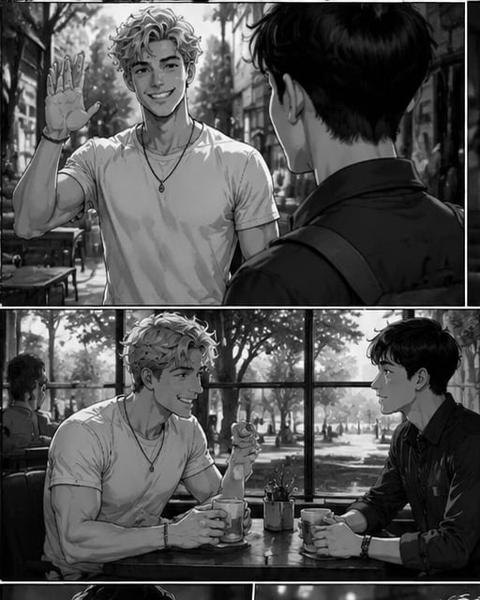
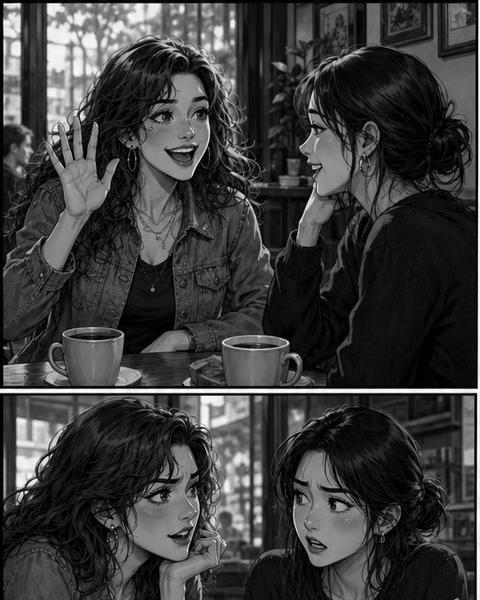
Give the news stories and Gossiping about Leo their own comics and covers
Six generated pages wired in: two each for Roland Garros, Grazing Board and
Gossiping about Leo. Each track now names its own comicUrl, because the
comicManifest is keyed by difficulty and would otherwise hand all three of them
Leo's pages.

The masters were 2-3 MB RGBA PNGs sitting in public/, and everything under
public/ is copied verbatim into dist/ and shipped in the frontend image — that
would have sent ~16 MB of source artwork to every student on a phone. They move
to assets-src/comics/, outside the served tree, and scripts/make-comics.py
flattens them to progressive JPEGs in the layout the built-in stories already
use: 16 MB becomes 1.8 MB, in line with the existing pages at ~270 KB each.

Flattening composites onto white rather than calling convert("RGB"), which
would composite transparency onto black and rim every soft edge with a dark
halo.

make-covers.py picks up the three stories from their own artwork, so
leo-additional stops borrowing a crop of Leo's ninth page, and the two news
stories get real cards instead of the halftone + emoji fallback. Its crop is
now derived from the page rather than hardcoded: the news art is square
(1024x1024, 1254x1254) while the character pages are 1024x1536, and a fixed
512x640 box reads as "top-left quarter" on a tall page but drifts toward the
middle of a square one. Half the width at 4:5 reproduces the old box exactly
for any 1024-wide page and stays framed on the rest.
[…]

diff --git a/src/pages/List.tsx b/src/pages/List.tsx
@@ -11,26 +11,29 @@ import {
   IoPlay,
 } from 'react-icons/io5';
 import { useTranslation } from 'react-i18next';
+import { themes } from '../modules/levelprogress/themes.levelprogress';
 
 /**
  * Story cards are 4:5 crops of each story's own comic page with the title set
  * in a caption plate, the way a comic puts narration inside the panel. The art
- * is monochrome, so progress is the one piece of colour on a card — red, the
- * same red the player's timeMarkers already use.
+ * is monochrome, so progress is the one piece of colour on a card — and that
+ * colour is the level's own, read from themes.levelprogress rather than picked
+ * again here, so a card can never drift from the level picker or LevelProgress.
+ *
+ * `accent` arrives as a var(--color-*) reference, so it is handed down as the
+ * --level-accent custom property and consumed by static utility classes
+ * (bg-[var(--level-accent)]). Interpolating a colour into a class name would
+ * not survive Tailwind's build-time scan.
  *
  * Level identity (the milk-fat metaphor) never rides on hue alone: the tag
  * carries the fat numeral and a filled-segment meter as well as the colour, so
- * it survives colour-blind viewing.
+ * it survives colour-blind viewing. The segment count and the fat label are
+ * milk-fat concepts rather than theme ones, so they stay local.
  */
-const levelAccents: Record<DifficultySlug, {
-  fill: string;
-  text: string;
-  segments: number;
-  fatKey: string;
-}> = {
-  easy:   { fill: 'bg-emerald-600', text: 'text-emerald-700', segments: 1, fatKey: 'fatEasy' },
-  medium: { fill: 'bg-orange-600',  text: 'text-orange-700',  segments: 2, fatKey: 'fatMedium' },
-  hard:   { fill: 'bg-purple-600',  text: 'text-purple-700',  segments: 3, fatKey: 'fatHard' },
+const levelFat: Record<DifficultySlug, { segments: number; fatKey: string }> = {
+  easy:   { segments: 1, fatKey: 'fatEasy' },
+  medium: { segments: 2, fatKey: 'fatMedium' },
+  hard:   { segments: 3, fatKey: 'fatHard' },
 };
 
 const categoryOrder: StoryGroup['category'][] = ['general', 'news'];
@@ -43,7 +46,8 @@ const List = () => {
 
   const diff = (difficulty || 'easy') as DifficultySlug;
   const stories = useStoryGroups(diff, t);
-  const accent = levelAccents[diff] || levelAccents.easy;
+  const theme = themes[diff] || themes.easy;
+  const fat = levelFat[diff] || levelFat.easy;
 
   const getStoryProgress = (story: StoryGroup) => {
     const storyData = getStoryData(diff, story.slug);
@@ -127,23 +131,27 @@ const List = () => {
     return () => observer.disconnect();
   }, [groupedStories]);
 
-  /** Colour + numeral + filled segments, so the level reads three ways. */
+  /**
+   * Colour + numeral + filled segments, so the level reads three ways.
+   * The hue rides on the segment blocks, not on the numeral: the accents are
+   * 500-weight and would not carry enough contrast as small text on the
+   * near-white page background.
+   */
   const FatMeter = () => (
     <span className="inline-flex items-center gap-2 text-[11px] uppercase tracking-widest text-gray-500">
       <span className="flex gap-[2px]" aria-hidden="true">
         {[0, 1, 2].map(i => (
           <span
             key={i}
-            className={`block h-3 w-[5px] rounded-[1px] ${
-              i < accent.segments ? accent.fill : 'bg-gray-200'
-            }`}
+            className="block h-3 w-[5px] rounded-[1px]"
+            style={{ backgroundColor: i < fat.segments ? theme.accent : 'var(--color-gray-200)' }}
           />
         ))}
       </span>
       <span>
         {t('levels.fatLabel')}{' '}
-        <span className={`font-semibold tabular-nums ${accent.text}`}>
-          {t(`levels.${accent.fatKey}`)}
+        <span className="font-semibold tabular-nums text-gray-800">
+          {t(`levels.${fat.fatKey}`)}
         </span>
       </span>
     </span>
@@ -174,8 +182,11 @@ const List = () => {
         data-list-reveal="out"
         // Panels land in reading order. The stagger is capped so a long shelf
         // never turns the entrance into a queue you have to wait out.
-        style={{ '--list-delay': `${Math.min(index, 7) * 55}ms` } as React.CSSProperties}
-        className={`group relative block w-full cursor-pointer overflow-hidden rounded-lg text-left aspect-[4/5] focus:outline-none focus-visible:ring-2 focus-visible:ring-red-500 focus-visible:ring-offset-2 ${
+        style={{
+          '--list-delay': `${Math.min(index, 7) * 55}ms`,
+          '--level-accent': theme.accent,
+        } as React.CSSProperties}
+        className={`group relative block w-full cursor-pointer overflow-hidden rounded-lg text-left aspect-[4/5] focus:outline-none focus-visible:ring-2 focus-visible:ring-[var(--level-accent)] focus-visible:ring-offset-2 ${
           story.cover ? 'bg-gray-900' : 'bg-white border border-gray-200'
         }`}
       >
@@ -207,7 +218,7 @@ const List = () => {
         {(hasStarted || isCompleted) && (
           <span
             className={`list-card__chip absolute left-2 top-2 z-10 inline-flex items-center gap-1 rounded px-1.5 py-[3px] text-[10px] font-semibold tabular-nums ${
-              isCompleted ? 'bg-gray-900 text-white' : 'bg-red-500 text-white'
+              isCompleted ? 'bg-gray-900 text-white' : 'bg-[var(--level-accent)] text-white'
             }`}
           >
             {isCompleted ? (
@@ -244,7 +255,7 @@ const List = () => {
           {/* Width is the real value; the entrance scales it in from the left,
               so the bar inks itself rather than animating layout. */}
           <span
-            className="list-card__fill block h-full bg-red-500"
+            className={`list-card__fill block h-full bg-gradient-to-r ${theme.progressGradient}`}
             style={{ width: `${percentage}%` }}
           />
         </span>

diff --git a/src/types/storyGroups.ts b/src/types/storyGroups.ts
@@ -40,9 +40,10 @@ const storyGroupsRaw: Record<DifficultySlug, StoryGroupRaw[]> = {
     // source/article first, then get a story connected to it. No real audio/text yet;
     // fill in totalTracks, coverEmoji, and src/modules/audiodata placeholder tracks
     // once content is ready.
-    { slug: 'news-roland-garros', character: 'Leo', totalTracks: 2, coverEmoji: '📰', category: 'news' },
+    { slug: 'news-roland-garros', character: 'Leo', totalTracks: 2, coverEmoji: '📰', category: 'news', cover: '/assets/covers/news-roland-garros.jpg' },
+    // No artwork yet, so no cover — this one keeps the halftone + emoji card.
     { slug: 'news-family-visit',  character: 'Leo', totalTracks: 2, coverEmoji: '📰', category: 'news' },
-    { slug: 'news-grazing-board', character: 'Leo', totalTracks: 2, coverEmoji: '📰', category: 'news' },
+    { slug: 'news-grazing-board', character: 'Leo', totalTracks: 2, coverEmoji: '📰', category: 'news', cover: '/assets/covers/news-grazing-board.jpg' },
   ],
   medium: [
     { slug: 'maya',   character: 'Maya',   totalTracks: 10, coverEmoji: '👩', cover: '/assets/covers/maya.jpg' },

diff --git a/src/modules/audiodata/audioDataLeoAdditional.ts b/src/modules/audiodata/audioDataLeoAdditional.ts
@@ -13,6 +13,10 @@ export const leoAdditionalAudioData: AudioTrack[] = [
     id: "1",
     title: "Ava and Katrin",
     audio: Girls1 ,
+    // Its own artwork, not comicsData's manifest — that is keyed by difficulty
+    // alone and would hand this story Leo's pages. Written by
+    // scripts/make-comics.py.
+    comicUrl: "/assets/leo-additional/comics/1.jpg",
     helpAudio: getHelpAudioUrls("easy", "leo-additional-1"), // check this signature/path convention
     subtitles: [ /* ... */ ],
     timeMarkers: [
@@ -37,6 +41,7 @@ export const leoAdditionalAudioData: AudioTrack[] = [
     id: "2",
     title: "Ava and Sofia",
     audio: Girls2,
+    comicUrl: "/assets/leo-additional/comics/2.jpg",
     helpAudio: getHelpAudioUrls("easy", "leo-additional-2"), // check this signature/path convention
     subtitles: [ /* ... */ ],
     timeMarkers: [ /* ... */ ],

diff --git a/src/modules/audiodata/audioDataNewsPlaceholder.ts b/src/modules/audiodata/audioDataNewsPlaceholder.ts
@@ -40,6 +40,12 @@ const newsTracks = (slug: string, recorded: boolean): AudioTrack[] =>
     audio: recorded ? getStorageUrl(`${slug}/${file}`) : "",
     subtitles: [],
     timeMarkers: getStoryMarkers("easy", slug, id),
+    // Comics can't come from comicsData's manifest: that is keyed by
+    // difficulty alone, so every easy story would be handed Leo's pages. Each
+    // news story carries its own, written by scripts/make-comics.py, and
+    // `recorded` doubles as "has artwork" — family-visit has neither yet and
+    // falls back to the empty Comics card.
+    comicUrl: recorded ? `/assets/${slug}/comics/${id}.jpg` : null,
   }));
 
 export const newsRolandGarrosAudioData: AudioTrack[] = newsTracks("news-roland-garros", true);

diff --git a/scripts/make-comics.py b/scripts/make-comics.py
@@ -1,0 +1,80 @@
+"""
+Turns generated comic artwork into the pages the player actually serves.
+
+Sources live in assets-src/comics/ and are deliberately NOT under public/:
+everything in public/ is copied verbatim into dist/ and shipped in the frontend
+image, so leaving the 2-3 MB RGBA PNGs there would send ~16 MB of masters to
+every student on a phone. They go out as ~300 KB progressive JPEGs instead,
+matching the built-in stories' pages (1024x1536, RGB, ~270 KB).
+
+Output layout mirrors the built-in stories, one folder per story with pages
+numbered from 1, which is also what scripts/make-covers.py globs:
+
+    public/assets/<story slug>/comics/1.jpg
+
+Adding a story? Drop the art in assets-src/comics/, add a line to JOBS, run
+this, then point that part's `comicUrl` at the file it writes (see
+src/modules/audiodata/audioDataNewsPlaceholder.ts for the pattern).
+
+    pip install pillow
+    python scripts/make-comics.py
+
+Run from the smartplayer package root.
+"""
+
+import os
+import sys
+
+from PIL import Image
+
+# (source file in assets-src/comics, output story slug, 1-based page number)
+JOBS = [
+    ("additional-1.png", "leo-additional", 1),
+    ("additional-2.png", "leo-additional", 2),
+    ("rolangarros2026.png", "news-roland-garros", 1),
+    ("rolangarros2026-discussion.png", "news-roland-garros", 2),
+    ("grazingboard.png", "news-grazing-board", 1),
+    ("grazingboard-discussion.png", "news-grazing-board", 2),
+]
+
+SRC_DIR = os.path.join("assets-src", "comics")
+QUALITY = 82
+
+
+def main():
+    if not os.path.isdir("public"):
+        sys.exit("Run this from the smartplayer package root (public/ not found).")
+    if not os.path.isdir(SRC_DIR):
+        sys.exit(f"No {SRC_DIR}/ — put the generated artwork there first.")
+
+    for filename, slug, page in JOBS:
+        source = os.path.join(SRC_DIR, filename)
+        if not os.path.isfile(source):
+            print(f"skip {slug} page {page}: {source} not found")
+            continue
+
+        out_dir = os.path.join("public", "assets", slug, "comics")
+        os.makedirs(out_dir, exist_ok=True)
+        out_path = os.path.join(out_dir, f"{page}.jpg")
+
+        # Flatten onto white rather than convert("RGB") directly: these are
+        # RGBA, and a straight convert composites transparent pixels onto black,
+        # which turns any soft edge into a dark halo.
+        art = Image.open(source)
+        if art.mode in ("RGBA", "LA", "P"):
+            art = art.convert("RGBA")
+            flat = Image.new("RGB", art.size, (255, 255, 255))
+            flat.paste(art, mask=art.split()[-1])
+            art = flat
+        else:
+            art = art.convert("RGB")
+
+        art.save(out_path, "JPEG", quality=QUALITY, optimize=True, progressive=True)
+
+        before = os.path.getsize(source) // 1024
+        after = os.path.getsize(out_path) // 1024
+        print(f"{slug:20} page {page}  {art.size[0]}x{art.size[1]}  {before:5} KB -> {after:4} KB")
+
+
+if __name__ == "__main__":
+    main()

diff --git a/scripts/make-covers.py b/scripts/make-covers.py
@@ -23,16 +23,17 @@ import sys
 
 from PIL import Image
 
-# (output slug, character folder, 1-based comic page to crop the cover from)
+# (output slug, comic folder under public/assets, 1-based page to crop from)
 JOBS = [
     ("leo", "leo", 1),
-    ("leo-additional", "leo", 9),
+    # Was cropped from leo page 9 while this story had no artwork of its own.
+    ("leo-additional", "leo-additional", 1),
     ("maya", "maya", 1),
     ("daniel", "daniel", 1),
+    ("news-roland-garros", "news-roland-garros", 1),
+    ("news-grazing-board", "news-grazing-board", 1),
 ]
 
-# The top-left region of a 1024x1536 page, already 4:5.
-CROP = (0, 0, 512, 640)
 SIZE = (480, 600)
 QUALITY = 75
 
@@ -58,7 +59,17 @@ def main():
             continue
 
         source = pages[page - 1]
-        cover = Image.open(source).convert("L").crop(CROP).resize(SIZE, Image.LANCZOS)
+        art = Image.open(source).convert("L")
+
+        # The crop is derived from the page rather than hardcoded, because the
+        # news artwork is square (1024x1024, 1254x1254) while the character
+        # stories' pages are 1024x1536. A fixed (0, 0, 512, 640) box reads as
+        # "top-left quarter" on a tall page but creeps toward the middle of a
+        # square one. Half the width, at 4:5, reproduces the original box
+        # exactly for any 1024-wide page and stays framed on the rest.
+        crop_w = art.width // 2
+        crop_h = min(round(crop_w * 5 / 4), art.height)
+        cover = art.crop((0, 0, crop_w, crop_h)).resize(SIZE, Image.LANCZOS)
 
         out_path = os.path.join(OUT_DIR, f"{slug}.jpg")
         cover.save(out_path, "JPEG", quality=QUALITY, optimize=True, progressive=True)
